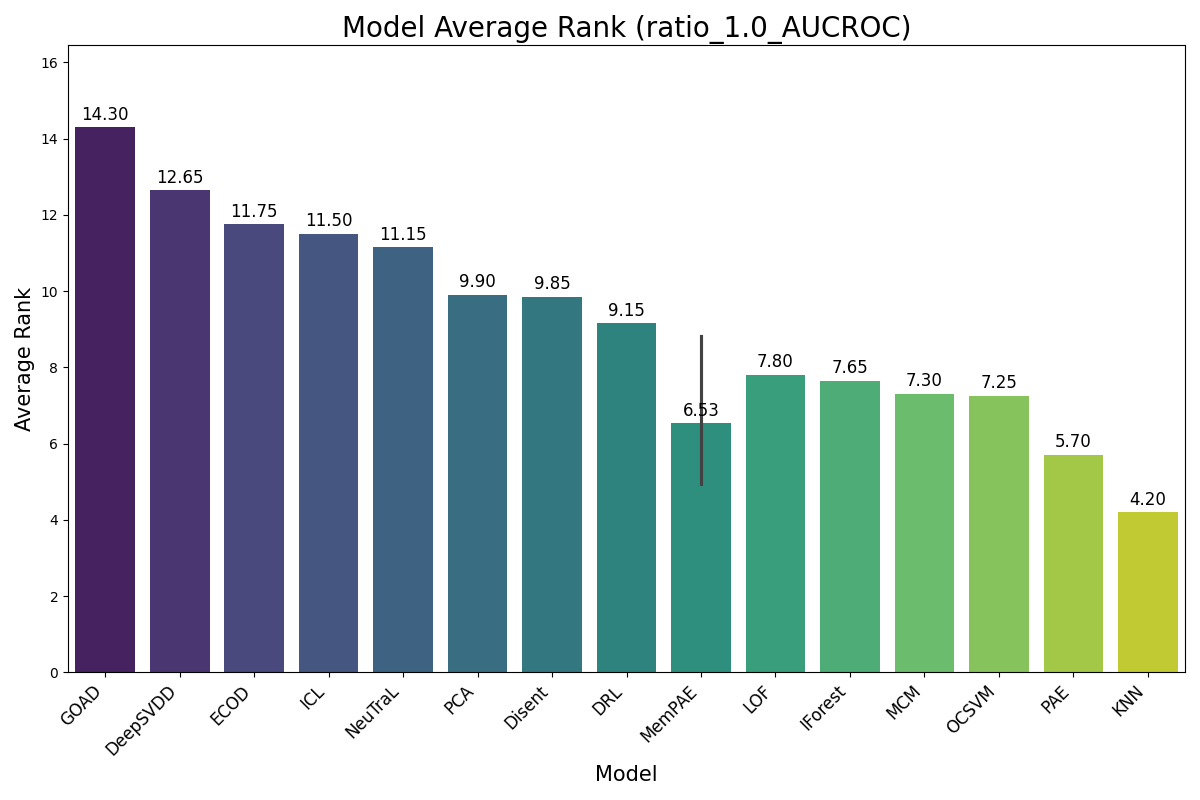
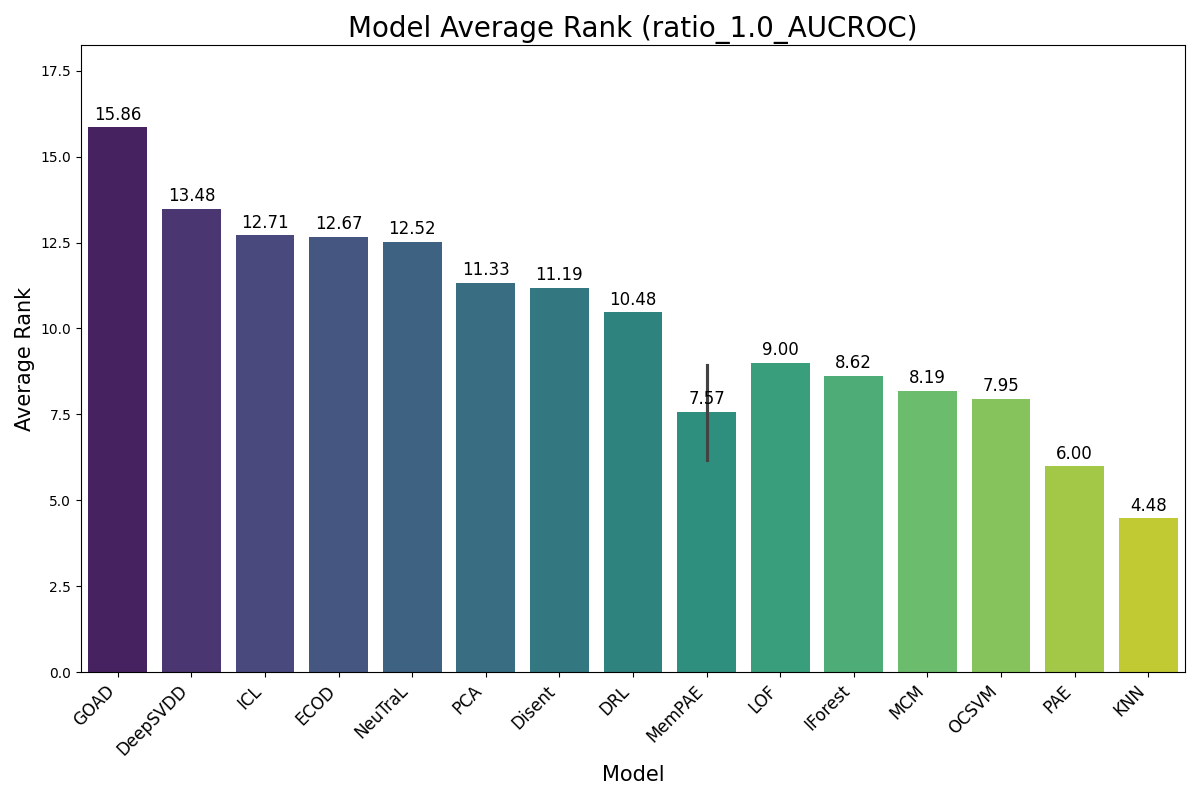
temp

diff --git a/summary.py b/summary.py
@@ -640,7 +640,7 @@ def main(args):
         'nslkdd', # large 
         'fraud', # large
         'shuttle', # large
-        # 'census', # large
+        'census', # large
     ]
     data.sort()
 
@@ -669,7 +669,9 @@ def main(args):
         # 'MemPAE-ws-pos_query+token-np-top5-L3-d64-lr0.001-t0.1',
         # 'MemPAE-ws-pos_query+token-np-top5-L4-d64-lr0.001-t0.1',
         'MemPAE-ws-pos_query+token-np-top5-L5-d64-lr0.001-t0.1',
+        'MemPAE-ws-pos_query+token-np-top3-L5-d64-lr0.001-t0.1',
         'MemPAE-ws-pos_query+token-np-top1-L5-d64-lr0.001-t0.1',
+        'MemPAE-ws-l2-d64-lr0.001',
         # 'MemPAE-ws-pos_query+token-mlp_dec-d64-lr0.001-t0.1',
         # 'MemPAE-ws-pos_query+token-use_ent_score-ent10-d64-lr0.001-t0.1',
         # 'MemPAE-ws-pos_query+token-use_ent_score-ent3-d64-lr0.001-t0.1',
